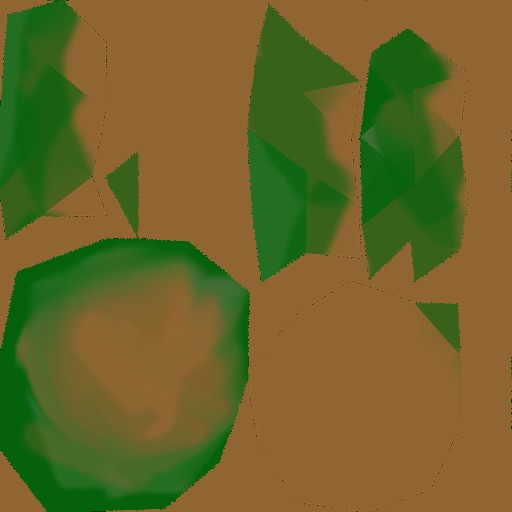
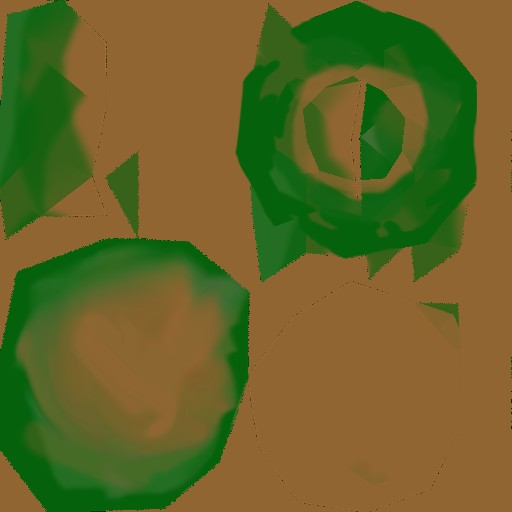
Make the texture buffer issue from gltf loader less trouble

diff --git a/src/Sample/KatachiBasicDemo.ts b/src/Sample/KatachiBasicDemo.ts
@@ -13,12 +13,11 @@ class KatachiBasicDemo {
     private katachi : Katachi;
     private sceneLoader : DemoSceneLoader;
 
-    private mainQuad : ShapeObject;
     private mainCube : ShapeObject;
     private mainCubeTwo : ShapeObject;
 
     private inputHandler : InputHandler
-    private katachiIsReady: boolean;
+    private sceneIsReady: boolean = false;
 
     constructor() {
         this.inputHandler = new InputHandler();
@@ -29,44 +28,39 @@ class KatachiBasicDemo {
 
     async SetUp(katachi : Katachi, sceneLayoutType : SceneLayoutType) {
         this.katachi = katachi;
-        this.katachiIsReady = await katachi.SetUp(this.UpdateLoop.bind(this));
+        let katachiReady = await katachi.SetUp(this.UpdateLoop.bind(this));
 
         let canvasDom : HTMLBodyElement = document.querySelector("#webgl_canvas");
 
-        if (this.katachiIsReady) {
+        if (katachiReady) {
             this.inputHandler.RegisterMouseMovement(canvasDom, this.OnMouseEvent.bind(this));
 
-            this.sceneLoader.LoadGLTFContent(katachi, sceneLayoutType);
+            await this.sceneLoader.LoadGLTFContent(katachi, sceneLayoutType);
 
-            this.mainQuad = katachi.shapeBuilder.BuildQuad();
             this.mainCube = katachi.shapeBuilder.BuildCube();
             this.mainCubeTwo = katachi.shapeBuilder.BuildCube();
 
-            this.mainQuad.transform.SetPosition(-1.2, 0, -1);
-            this.mainQuad.transform.Scale(0.2);
+            this.mainCube.transform.SetPosition(0, -0.2,-2);
+            this.mainCube.transform.Scale(0.3);
 
-            this.mainCube.transform.SetPosition(0, 0,-2);
-            this.mainCube.transform.Scale(0.5);
-
-            this.mainCubeTwo.transform.Scale(0.2);
+            this.mainCubeTwo.transform.Scale(0.1);
+            this.mainCubeTwo.transform.SetPosition(0, -0.3,-1);
 
             katachi.scene.SetParent(this.mainCube, this.mainCubeTwo);
 
-
             katachi.scene.AddShapeObj(this.mainCube);
-            katachi.scene.AddShapeObj(this.mainQuad);
             katachi.scene.AddShapeObj(this.mainCubeTwo);
 
-            this.katachi.materialManager.LoadTextureToObject(this.mainQuad, "u_mainTex", "./texture/BrickTex_256.jpg");
             this.katachi.materialManager.LoadTextureToObject(this.mainCube, "u_mainTex", "./texture/Personal_01.png");
             
             this.mainCube.SetCustomUniformAttr("u_mainColor", {value : [1, 1, 1, 1], isMatrix : false, function : this.katachi.webglContext.uniform4fv})
-            this.mainQuad.SetCustomUniformAttr("u_mainColor", {value : [0, 0, 1, 1], isMatrix : false, function : this.katachi.webglContext.uniform4fv})
+
+            this.sceneIsReady = true;
         }
     }
 
     OnMovementEvent(direction : vec2) {
-        if (!this.katachiIsReady) return; 
+        if (!this.sceneIsReady) return; 
         let deltaTime = 0.02 ;
         let speed = deltaTime;
         this.katachi.scene.camera.transform.Translate(-direction[0] * speed, 0, direction[1] * speed);
@@ -102,7 +96,7 @@ class KatachiBasicDemo {
 
         this.inputHandler.OnUpdate();
 
-        if (this.katachi == null|| this.mainQuad == null) return;
+        if (!this.sceneIsReady) return;
 
         // console.log(this.katachi.scene.lights.directionLigth.transform.rotation[0]);
         //this.mainCube.transform.Translate(Math.sin(timeSecond)*0.02, 0, 0);

diff --git a/src/Katachi/Component/Material/Material.ts b/src/Katachi/Component/Material/Material.ts
@@ -76,7 +76,7 @@ class Material {
                 this.cacheUniformShaderPosition[properties[i].id] = uniform;
                 
                 let key = this.id+properties[i].id;
-                
+
                 let textureKey = (properties[i].texture === undefined) ? key : properties[i].texture;
 
                 this.glResource.SaveGLTextureSource(key, textureKey, uniform);
@@ -85,13 +85,11 @@ class Material {
                     let texture = (uniTextureDefine.textureBuffer == null) ? gl.createTexture() : uniTextureDefine.textureBuffer;
 
                     let cache = this.glResource.SaveGlobalTextureSource(textureKey, texture, gl.TEXTURE0);
-
                     gl.activeTexture(cache.globalIndex);
                     gl.bindTexture(gl.TEXTURE_2D, texture);
                     
                     if (uniTextureDefine.textureBuffer == null)
-                        gl.texImage2D(gl.TEXTURE_2D, 0, gl.RGBA, 1, 1, 0, gl.RGBA, gl.UNSIGNED_BYTE,
-                                    new Uint8Array([255, 255, 255, 255])); 
+                        gl.texImage2D(gl.TEXTURE_2D, 0, gl.RGBA, 1, 1, 0, gl.RGBA, gl.UNSIGNED_BYTE, new Uint8Array([255, 255, 255, 255])); 
 
                     gl.uniform1i(uniform, cache.globalIndex - gl.TEXTURE0); 
                 }

diff --git a/src/Katachi/Component/Shape/ShapeBuilder.ts b/src/Katachi/Component/Shape/ShapeBuilder.ts
@@ -89,8 +89,8 @@ class ShapeBuilder {
         defaultMatConfig.attributes[DefaultVertexShaderParameter.tangent].value = gltfmesh.tangents.buffer;
 
         if (gltfModel.materials.length > 0) {
-            defaultMatConfig.texture[0].textureBuffer = gltfModel.materials[0].baseColorTexture; // DiffuseTex
-            defaultMatConfig.texture[1].textureBuffer = gltfModel.materials[0].normalTexture; // NormalTex
+            if (gltfModel.materials[0].baseColorTexture != null)defaultMatConfig.texture[0].textureBuffer = gltfModel.materials[0].baseColorTexture; // DiffuseTex
+            if (gltfModel.materials[0].normalTexture != null) defaultMatConfig.texture[1].textureBuffer = gltfModel.materials[0].normalTexture; // NormalTex
         }
         shapeObject.SetCustomUniformAttr("u_mainColor", {value : [1, 1, 1, 1], isMatrix : false, function : this._gl.uniform4fv})
 

diff --git a/src/Katachi/Component/Shape/ShapeObject.ts b/src/Katachi/Component/Shape/ShapeObject.ts
@@ -35,8 +35,8 @@ class ShapeObject extends ObjectInterface {
         this.matUniformAttributes = matUniformAttributes;
     }
 
-    SetCustomUniformAttr(material_name : string, matUniformAttributes : UniformAttrType) {
-        this.matUniformAttributes[material_name] = matUniformAttributes;
+    SetCustomUniformAttr(uniform_id : string, matUniformAttributes : UniformAttrType) {
+        this.matUniformAttributes[uniform_id] = matUniformAttributes;
     }
 
     /**

diff --git a/src/Sample/DemoSceneLoader.ts b/src/Sample/DemoSceneLoader.ts
@@ -18,7 +18,7 @@ export default class DemoSceneLoader {
             self.SetGLTFToConfigLayout(katachi, sceneJsonConfig.gltf[i], (gltfModel));
         }
 
-        // Promise.all(gltfPromiseArray).then(function(values) {
+        // await Promise.all(gltfPromiseArray).then(function(values) {
         //     let gltfCount = sceneJsonConfig.gltf.length;
 
         //     for (let i = 0; i < gltfCount; i++) {

diff --git a/src/Katachi/Component/Scene.ts b/src/Katachi/Component/Scene.ts
@@ -40,8 +40,8 @@ class Scene {
 
         if (parentObject == null) return;
 
-        let parentIndex = this._shapeArray.findIndex(x=>x.id = parentObject.id);
-    
+        let parentIndex = this._shapeArray.findIndex(x=>x.id == parentObject.id);
+            
         if (parentIndex >= 0) {
             this.RemoveShapeObj(childObject.id);
 
